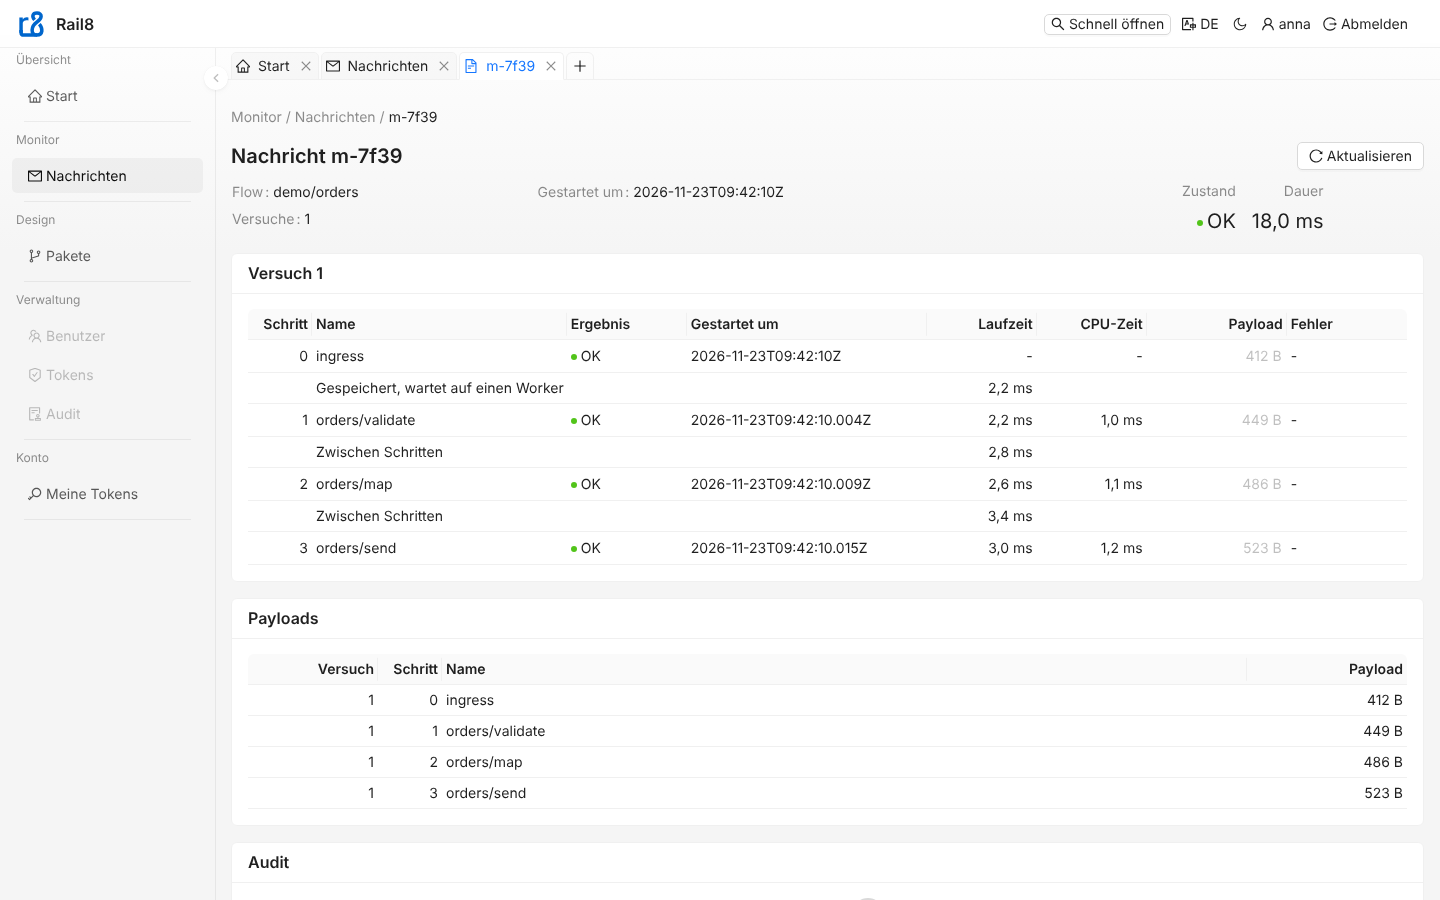
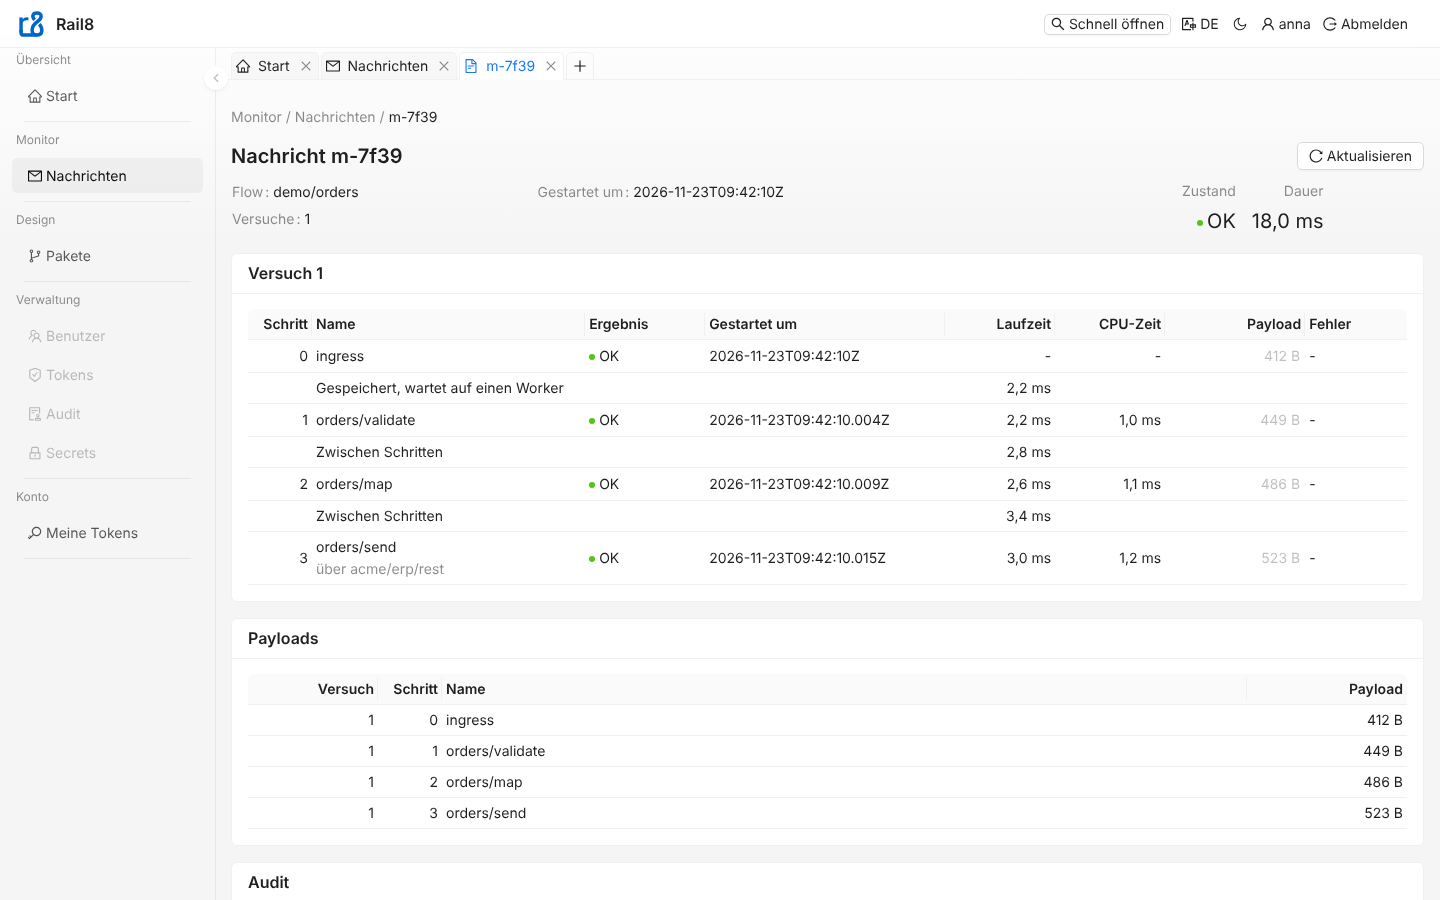
Steady tests under load; the pictures retaken
The clock of the parked-send test moves only once every row handed out
was answered, so no run is going when its time limit could pass. The
restart test fires the timer's due tasks until the consumer started and
the flow is listed RUNNING. The pictures of the flow by its connections
and of the message screens are taken again.

Claude-Session: https://claude.ai/code/session_018sN5AWtkoMkayq6chrPnrR

diff --git a/platform/runtime/src/test/java/dev/rail8/runtime/deploy/CountingQueue.java b/platform/runtime/src/test/java/dev/rail8/runtime/deploy/CountingQueue.java
@@ -27,6 +27,8 @@ public final class CountingQueue implements WorkQueue {
     private final List<Thread> claimers = new CopyOnWriteArrayList<>();
     private final List<String> enqueued = new CopyOnWriteArrayList<>();
     private final List<String> claimed = new CopyOnWriteArrayList<>();
+    /** The seq of every row handed out and not yet answered by a complete, defer, stop or hold. */
+    private final java.util.Set<Long> out = java.util.concurrent.ConcurrentHashMap.newKeySet();
     private final List<String> hasItemsCalls = new CopyOnWriteArrayList<>();
     private final java.util.Map<String, Runnable> afterFirstHasItems = new java.util.concurrent.ConcurrentHashMap<>();
     private final java.util.concurrent.atomic.AtomicInteger renews = new java.util.concurrent.atomic.AtomicInteger();
@@ -56,6 +58,12 @@ public final class CountingQueue implements WorkQueue {
         Thread self = Thread.currentThread();
         return claimers.stream().allMatch(t -> t == self || !t.isAlive());
     }
+
+    /**
+     * Whether every row handed out was answered: completed, deferred, stopped or held. While one is not, its run may still be going
+     * on its own thread, and a clock moved then may pass that run's time limit.
+     */
+    public boolean runsSettled() { return out.isEmpty(); }
 
     /** The items queued and not completed (FIX-30: an item completed by its own success leaves none). */
     public int size() { return inner.size(); }
@@ -89,14 +97,27 @@ public final class CountingQueue implements WorkQueue {
         claimers.add(Thread.currentThread());
         claims.add(workerId + " " + flow);
         Future<List<Item>> items = inner.claim(workerId, flow, max, lease);
-        items.onSuccess(taken -> taken.forEach(i -> claimed.add(i.messageId())));   // in-memory: already complete, runs here
+        items.onSuccess(taken -> taken.forEach(i -> {   // in-memory: already complete, runs here
+            claimed.add(i.messageId());
+            out.add(i.seq());
+        }));
         return items;
     }
 
-    @Override public Future<Boolean> complete(long seq, int attempts) { return inner.complete(seq, attempts); }
+    @Override public Future<Boolean> complete(long seq, int attempts) { return answered(seq, inner.complete(seq, attempts)); }
 
     @Override public Future<Completion> completeAndTakeNext(long seq, int attempts, String workerId, Duration lease) {
-        return inner.completeAndTakeNext(seq, attempts, workerId, lease);
+        return inner.completeAndTakeNext(seq, attempts, workerId, lease).onSuccess(c -> {
+            if (c.completed()) out.remove(seq);
+            c.next().ifPresent(i -> out.add(i.seq()));
+        });
+    }
+
+    /** {@code answer}, after row {@code seq} left the rows handed out when the queue answered true. */
+    private Future<Boolean> answered(long seq, Future<Boolean> answer) {
+        return answer.onSuccess(done -> {
+            if (done) out.remove(seq);
+        });
     }
 
     /**
@@ -123,16 +144,16 @@ public final class CountingQueue implements WorkQueue {
     /** The in-memory queue's defer (CORE-14a P3); one it answered true recorded with the clock at the call. */
     @Override public Future<Boolean> defer(long seq, int attempts, Duration delay) {
         java.time.Instant at = clock.instant();
-        return inner.defer(seq, attempts, delay).onSuccess(deferred -> {
+        return answered(seq, inner.defer(seq, attempts, delay).onSuccess(deferred -> {
             if (deferred) deferredAt.add(at);
-        });
+        }));
     }
 
-    @Override public Future<Boolean> stop(long seq, int attempts, dev.rail8.core.dlq.Parked failure) { return inner.stop(seq, attempts, failure); }
+    @Override public Future<Boolean> stop(long seq, int attempts, dev.rail8.core.dlq.Parked failure) { return answered(seq, inner.stop(seq, attempts, failure)); }
 
     @Override public Future<dev.rail8.core.record.Page<Stopped>> stopped(Optional<String> after, int limit) { return inner.stopped(after, limit); }
 
-    @Override public Future<Boolean> hold(long seq, int attempts) { return inner.hold(seq, attempts); }
+    @Override public Future<Boolean> hold(long seq, int attempts) { return answered(seq, inner.hold(seq, attempts)); }
 
     @Override public Future<dev.rail8.core.record.Page<Held>> held(Optional<String> after, int limit) { return inner.held(after, limit); }
 

diff --git a/platform/runtime/src/test/java/dev/rail8/runtime/deploy/DeploymentsConnectionsTest.java b/platform/runtime/src/test/java/dev/rail8/runtime/deploy/DeploymentsConnectionsTest.java
@@ -445,12 +445,13 @@ class DeploymentsConnectionsTest {
     }
 
     /**
-     * The fake clock moved a second at a time, each step once the node's work settled, until {@code condition} holds; at most two
+     * The fake clock moved a second at a time, each step once the node's work settled (no claim can still land, every row handed
+     * out was answered, so no run is going when its time limit could pass), until {@code condition} holds; at most two
      * minutes of it: a retry's wake, armed as its run ends, fires on a later step.
      */
     void advancedUntil(BooleanSupplier condition, Supplier<String> what) {
         for (int s = 0; s < 120 && !condition.getAsBoolean(); s++) {
-            DeploymentsRetriesTest.until(queue::claimsSettled, () -> "the claims settled: " + queue.claims());
+            DeploymentsRetriesTest.until(() -> queue.claimsSettled() && queue.runsSettled(), () -> "the node's work settled: " + queue.claims());
             rt.clock().advance(Duration.ofSeconds(1));
         }
         DeploymentsRetriesTest.until(condition, what);
@@ -539,19 +540,29 @@ class DeploymentsConnectionsTest {
         assertEquals(0, doors.doors().size());
 
         env.connection("acme/erp/inbox", values(1, "rec://inbox"));
-        rt.clock().advance(Duration.ZERO);
-        DeploymentsCustomCodeTest.until(() -> doors.doors().size() == 1, "the restart");
+        restarted(1);
         assertEquals(DeployedFlow.State.RUNNING, deployments.flows().getFirst().state());
         accept("shop/orders");
 
         env.connection("acme/erp/inbox", values(4, "rec://moved"));
-        rt.clock().advance(Duration.ZERO);
-        DeploymentsCustomCodeTest.until(() -> doors.doors().size() == 2, "the restart");
+        restarted(2);
         assertEquals("rec://moved", doors.door("shop/orders").cfg().options().get("url"), "the new values start");
 
         env.instanceName("acme/erp", "ACME-ERP-DEV-2");   // an activation that leaves its connection as it was restarts nothing
         rt.clock().advance(Duration.ZERO);
         assertEquals(2, doors.doors().size());
+    }
+
+    /**
+     * Waits until {@code count} consumers started and the first flow is listed RUNNING again, its start completed, firing the
+     * timer's due tasks meanwhile: a restart asked while the previous start attempt is still ending is armed once that attempt
+     * ended, after the activation returned.
+     */
+    void restarted(int count) {
+        DeploymentsCustomCodeTest.until(() -> {
+            rt.clock().advance(Duration.ZERO);
+            return doors.doors().size() == count && deployments.flows().getFirst().state() == DeployedFlow.State.RUNNING;
+        }, "the restart");
     }
 
     /** A secret a connection names is read as a live handle: set once the deploy refused, the deploy goes through. */
